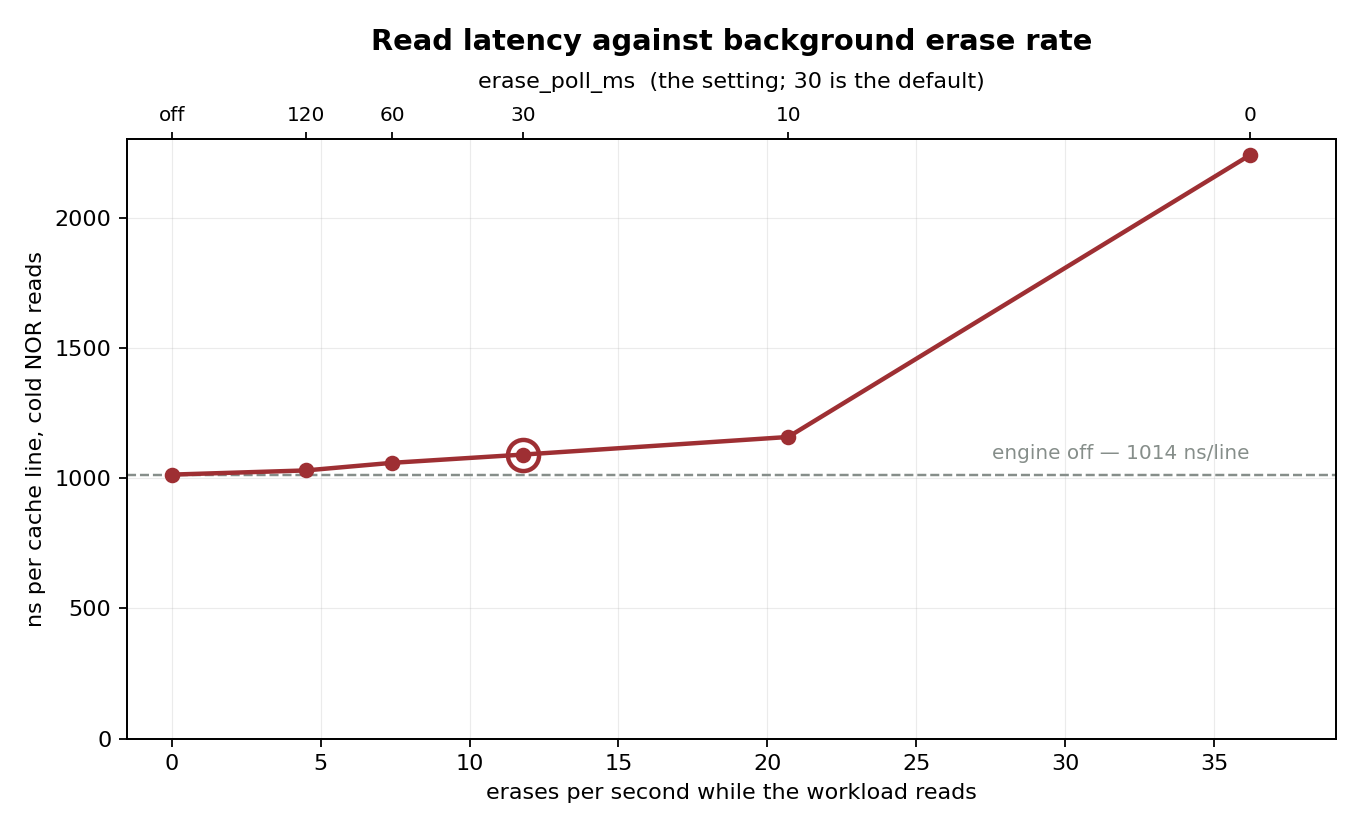
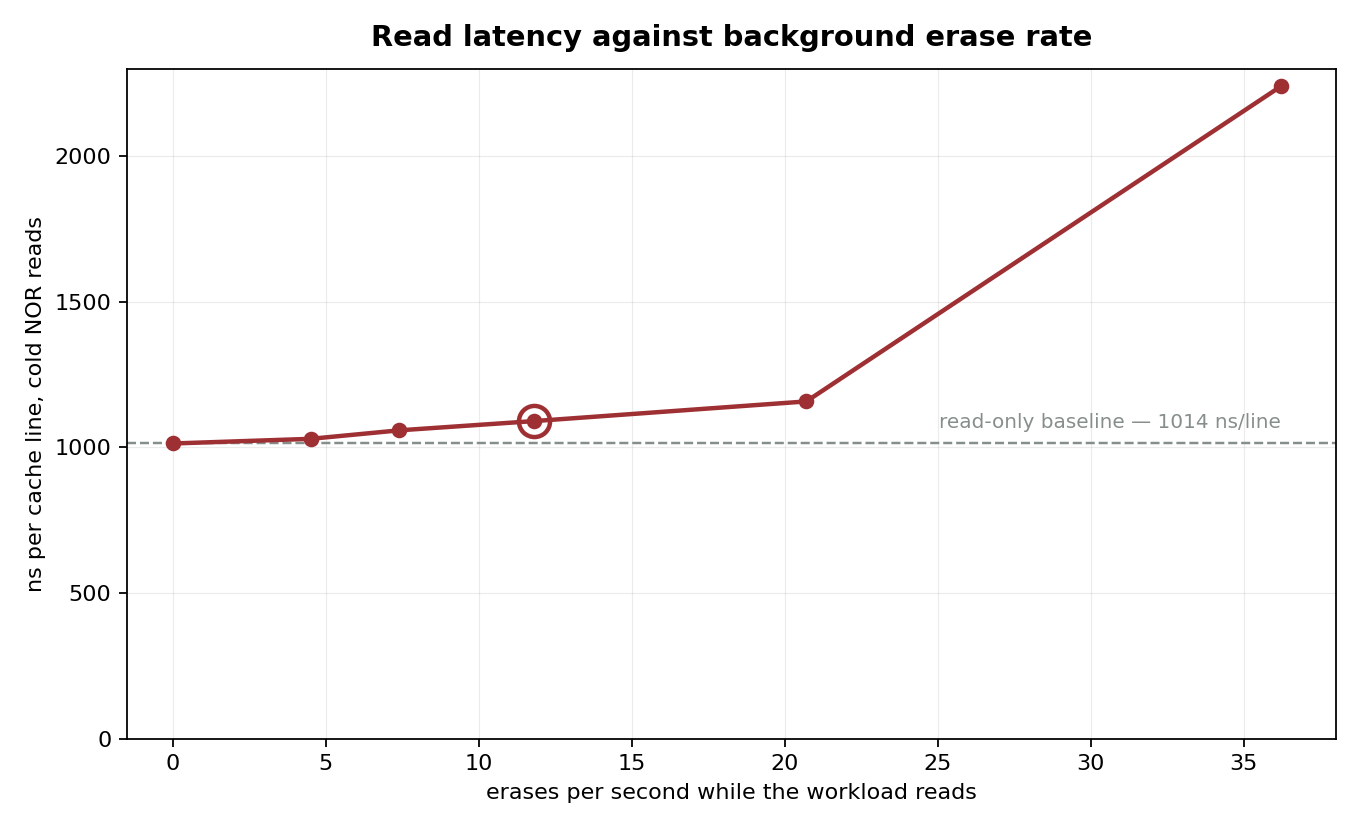
plot: split the erase sweep into rate and interval, drop the top axis
Two figures rather than one with two scales stacked on it: (a) against the
erase rate the engine achieved, (b) against erase_poll_ms, the knob. The top
axis was confusing and neither view needs the other printed over it.

Both shade min to max across passes when the CSV carries the distribution,
which is the point -- a mean cannot show whether a read collided with an
erase or slipped past one. Falls back to the mean alone for the runs recorded
before J captured percentiles.

diff --git a/scripts/plot_selftest.py b/scripts/plot_selftest.py
@@ -38,43 +38,63 @@ def frame(ax, title, xl, yl, note=None):
 made = []
 r = rows("read-vs-erase.csv")
 if r:
-    # SORT BY THE X AXIS. The CSV is in measurement order -- off, 0, 10, 30,
-    # 60, 120 -- but x is the erase RATE, which runs the other way: a poll of
-    # 0 ms erases fastest and 120 ms slowest. Plotting in file order sent the
-    # line out to 36/s and then walked it back left across every other point.
-    r = sorted(r, key=lambda x: float(x["erase_rate_per_s"]))
-    er = [float(x["erase_rate_per_s"]) for x in r]
-    ns = [float(x["ns_per_line"]) for x in r]
-    base = next((float(x["ns_per_line"]) for x in r if x["poll_ms"] == "off"), ns[0])
+    # Tolerate both shapes: the first runs recorded only a mean.
+    def col(x, *names):
+        for n in names:
+            if n in x and x[n] not in ("", None): return float(x[n])
+        return None
+    def poll_val(x):        # "off" sorts to the far right on an interval axis
+        return 1e9 if x["poll_ms"] == "off" else float(x["poll_ms"])
 
-    fig, ax = plt.subplots(figsize=(8.5, 5.2))
-    ax.axhline(base, color=C_GRID, ls="--", lw=1.1)
-    ax.annotate(f"engine off — {base:.0f} ns/line", (max(er), base), fontsize=9,
-                color=C_GRID, ha="right", va="bottom",
-                xytext=(0, 5), textcoords="offset points")
-    ax.plot(er, ns, "o-", color=C_NOR, lw=2, ms=6, zorder=3)
+    base = next((col(x, "mean_ns", "ns_per_line") for x in r if x["poll_ms"] == "off"), None)
+    has_dist = "max_ns" in r[0]
 
-    # The poll setting and the achieved rate are two views of one knob, so
-    # labelling every point repeats the x axis. Put the mapping on a second
-    # axis instead: same positions, no clutter over the data.
-    ax.set_ylim(bottom=0)
-    ax.set_xlim(left=-1.5, right=max(er) * 1.08)
-    top = ax.twiny()
-    top.set_xlim(ax.get_xlim())
-    top.set_xticks(er)
-    top.set_xticklabels(["off" if x["poll_ms"] == "off" else x["poll_ms"] for x in r], fontsize=9)
-    top.set_xlabel("erase_poll_ms  (the setting; 30 is the default)", fontsize=10, labelpad=8)
-    top.tick_params(axis="x", length=3)
-    # Mark where the system actually runs.
-    d = next((x for x in r if x["poll_ms"] == "30"), None)
-    if d:
-        ax.plot([float(d["erase_rate_per_s"])], [float(d["ns_per_line"])],
-                "o", mfc="none", mec=C_NOR, mew=2, ms=14, zorder=4)
-    frame(ax, "Read latency against background erase rate",
-          "erases per second while the workload reads",
-          "ns per cache line, cold NOR reads")
-    fig.tight_layout(); fig.savefig(f"{OUT}/selftest-read-vs-erase.png", dpi=160)
+    def draw(xs, ys, lo, hi, xlab, fname, title, xlim_left=None, marker=None):
+        fig, ax = plt.subplots(figsize=(8.5, 5.2))
+        if base:
+            ax.axhline(base, color=C_GRID, ls="--", lw=1.1)
+            ax.annotate(f"read-only baseline — {base:.0f} ns/line",
+                        (max(xs), base), fontsize=9, color=C_GRID, ha="right",
+                        va="bottom", xytext=(0, 5), textcoords="offset points")
+        if lo and hi:
+            ax.fill_between(xs, lo, hi, color=C_NOR, alpha=.15, lw=0,
+                            label="min to max across passes")
+        ax.plot(xs, ys, "o-", color=C_NOR, lw=2, ms=6, zorder=3,
+                label="mean" if lo else None)
+        if marker is not None:
+            ax.plot([marker[0]], [marker[1]], "o", mfc="none", mec=C_NOR, mew=2, ms=14, zorder=4)
+        ax.set_ylim(bottom=0)
+        if xlim_left is not None: ax.set_xlim(left=xlim_left)
+        if lo: ax.legend(fontsize=9, frameon=False, loc="upper left")
+        frame(ax, title, xlab, "ns per cache line, cold NOR reads")
+        fig.tight_layout(); fig.savefig(f"{OUT}/{fname}", dpi=160)
+
+    # (a) against what the engine actually achieved
+    ra = sorted(r, key=lambda x: float(x["erase_rate_per_s"]))
+    xs = [float(x["erase_rate_per_s"]) for x in ra]
+    ys = [col(x, "mean_ns", "ns_per_line") for x in ra]
+    lo = [col(x, "min_ns") for x in ra] if has_dist else None
+    hi = [col(x, "max_ns") for x in ra] if has_dist else None
+    d = next((x for x in ra if x["poll_ms"] == "30"), None)
+    draw(xs, ys, lo, hi, "erases per second while the workload reads",
+         "selftest-read-vs-erase.png", "Read latency against background erase rate",
+         xlim_left=-1.5,
+         marker=(float(d["erase_rate_per_s"]), col(d, "mean_ns", "ns_per_line")) if d else None)
     made.append("read-vs-erase")
+
+    # (b) against the knob: how often an erase is issued
+    rb = sorted([x for x in r if x["poll_ms"] != "off"], key=poll_val)
+    if rb:
+        xs = [poll_val(x) for x in rb]
+        ys = [col(x, "mean_ns", "ns_per_line") for x in rb]
+        lo = [col(x, "min_ns") for x in rb] if has_dist else None
+        hi = [col(x, "max_ns") for x in rb] if has_dist else None
+        d = next((x for x in rb if x["poll_ms"] == "30"), None)
+        draw(xs, ys, lo, hi, "erase_poll_ms  (delay between erases)",
+             "selftest-read-vs-interval.png", "Read latency against erase interval",
+             xlim_left=-4,
+             marker=(30.0, col(d, "mean_ns", "ns_per_line")) if d else None)
+        made.append("read-vs-interval")
 
 r = rows("promote-rate.csv")
 if r:
